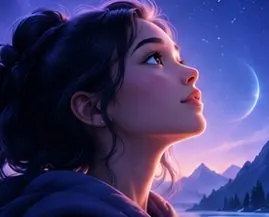
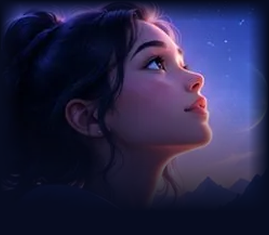
fix(android): precompose portrait fades and use verified image-only native rendering

diff --git a/mobile/components/visuals.tsx b/mobile/components/visuals.tsx
@@ -14,7 +14,7 @@ export function MountainScene({ height = 182 }: { height?: number }) {
   const [width,setWidth]=useState(360);
   const horizon=height*.78;
   return <View {...decorative} onLayout={e=>setWidth(e.nativeEvent.layout.width)} style={{height,width:"100%",overflow:"hidden",backgroundColor:"#1b2858"}}>
-    <LinearGradient colors={["#111d49","#4b4388","#c798b2","#527ea2"]} locations={[0,.45,.72,1]} style={{position:"absolute",inset:0}} />
+    <LinearGradient colors={["#111d49","#4b4388","#c798b2","#527ea2"]} style={{position:"absolute",inset:0}} />
     <View style={{position:"absolute",right:width*.12,top:height*.15,width:48,height:48,borderRadius:24,backgroundColor:"#ccdfff",boxShadow:"0 0 32px rgba(159,202,255,.45)"}} />
     <View style={{position:"absolute",right:width*.12-6,top:height*.15-5,width:46,height:46,borderRadius:24,backgroundColor:"#414478"}} />
     {stars.map(([x,y],i)=><View key={i} style={{position:"absolute",left:width*x,top:height*y,width:i%3?1.5:2.5,height:i%3?1.5:2.5,borderRadius:2,backgroundColor:i%2?"#c7d6ff":"#f6e3ff"}} />)}
@@ -34,15 +34,13 @@ export function MountainScene({ height = 182 }: { height?: number }) {
         <View style={{position:"absolute",left:treeW*.46,top:treeH*.65,width:2,height:treeH*.45,backgroundColor:"#0d263c"}} />
       </View>;
     })}
-    <LinearGradient colors={["transparent","#0e1a35"]} locations={[.1,1]} style={{position:"absolute",left:0,right:0,bottom:0,height:height*.35}} />
+    <LinearGradient colors={["transparent","#0e1a35"]} style={{position:"absolute",left:0,right:0,bottom:0,height:height*.35}} />
   </View>;
 }
-/** Standard PNG preserves the approved pixels without an optional WebP decoder. */
+/** Precomposed PNG keeps the approved portrait and fades without overlapping native gradients. */
 export function WelcomeArtwork() {
   return <View {...decorative} style={{position:"absolute",top:0,left:0,right:0,height:310,overflow:"hidden"}}>
     <Image source={require("../assets/approved-dreamscape.png")} resizeMode="cover" fadeDuration={0} style={{width:"100%",height:310}} />
-    <LinearGradient colors={["rgba(7,12,32,.02)","rgba(7,12,32,.02)","#070c20"]} locations={[0,.55,1]} style={{position:"absolute",inset:0}} />
-    <LinearGradient colors={["#070c20","transparent","transparent","#070c20"]} locations={[0,.04,.96,1]} start={{x:0,y:0}} end={{x:1,y:0}} style={{position:"absolute",inset:0}} />
   </View>;
 }
 export type MotifKind = "perspective" | "reasoning" | "decisions" | "growth";
